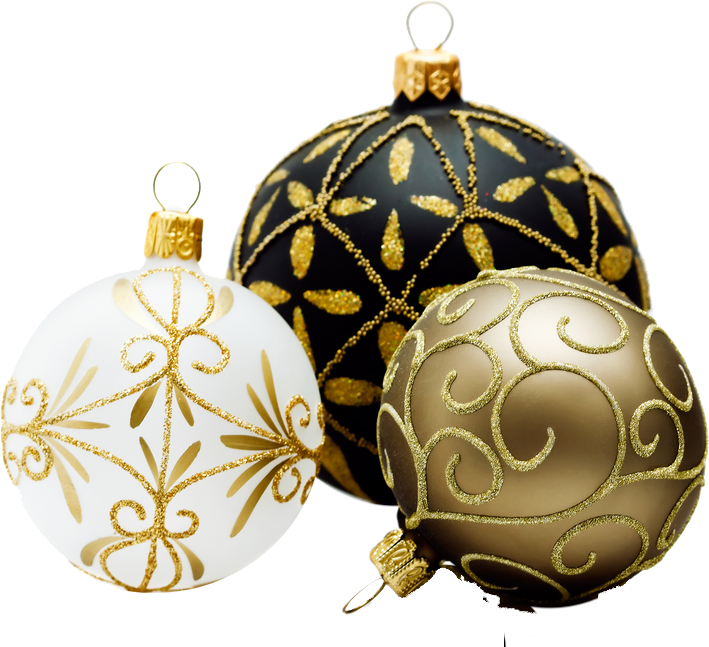
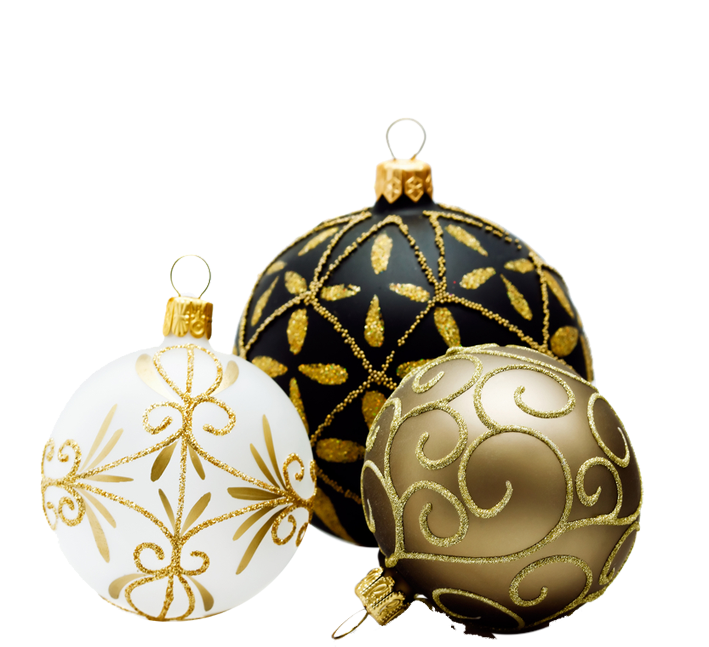
fix scaling of mantlepieces

diff --git a/src/App.vue b/src/App.vue
@@ -937,7 +937,7 @@ export default {
 
       var targObj = eval(obj.val);
 
-        TweenMax.to(targObj.scale, 1, {x:"+=.01",y:"+=.01" , ease: Power2.easeOut});
+     //   TweenMax.to(targObj.scale, 1, {x:"+=.01",y:"+=.01" , ease: Power2.easeOut});
 
          TweenMax.to(targObj, 0.5, {colorProps: {
               tint: 0xEDE6AF, format:"number"
@@ -962,7 +962,7 @@ export default {
         
         var targObj = eval(obj.val);
 
-        TweenMax.to(targObj.scale, 0.5, {x:"-=.01",y:"-=.01", ease: Power2.easeOut});
+     //   TweenMax.to(targObj.scale, 0.5, {x:"-=.01",y:"-=.01", ease: Power2.easeOut});
 
         TweenMax.to(targObj, 0.5, {colorProps: {
               tint: 0xFFFFFF, format:"number"

diff --git a/src/setting/index.js b/src/setting/index.js
@@ -34,13 +34,13 @@ export default  {
         'bowl-01', 
         'bowl-02',
         'bowl-03',
+        'orn-01',
+        'orn-02',
+        'orn-03',
         'pin-01',
         'pin-02',
         'pin-03',
         'pin-04',
-        'pin-01',
-        'pin-02',
-        'pin-03',
         'clear'
     ],
     stockings:[
